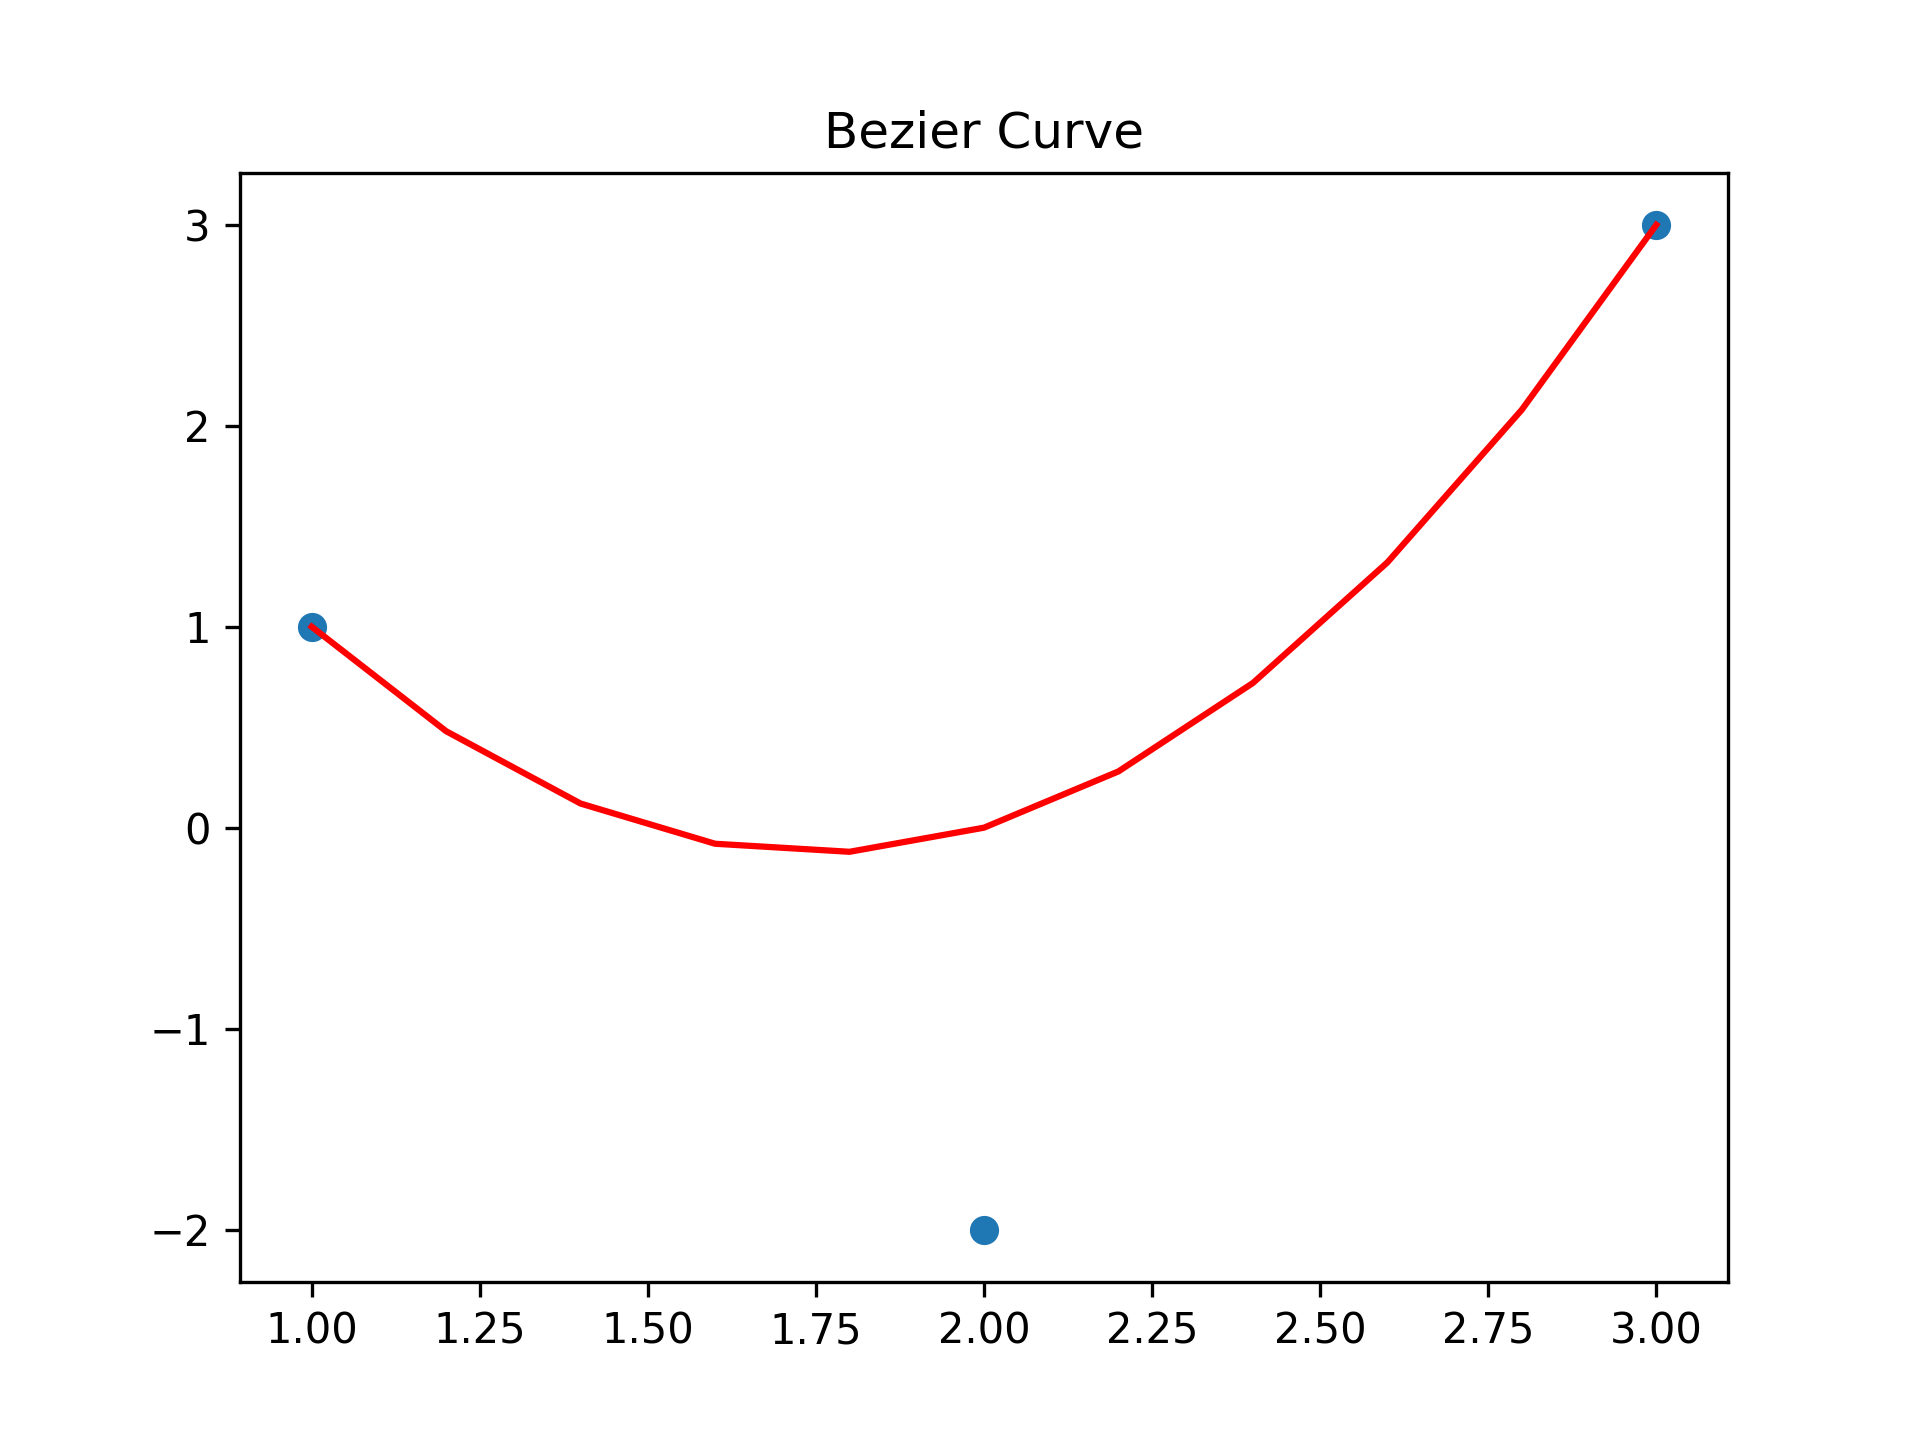
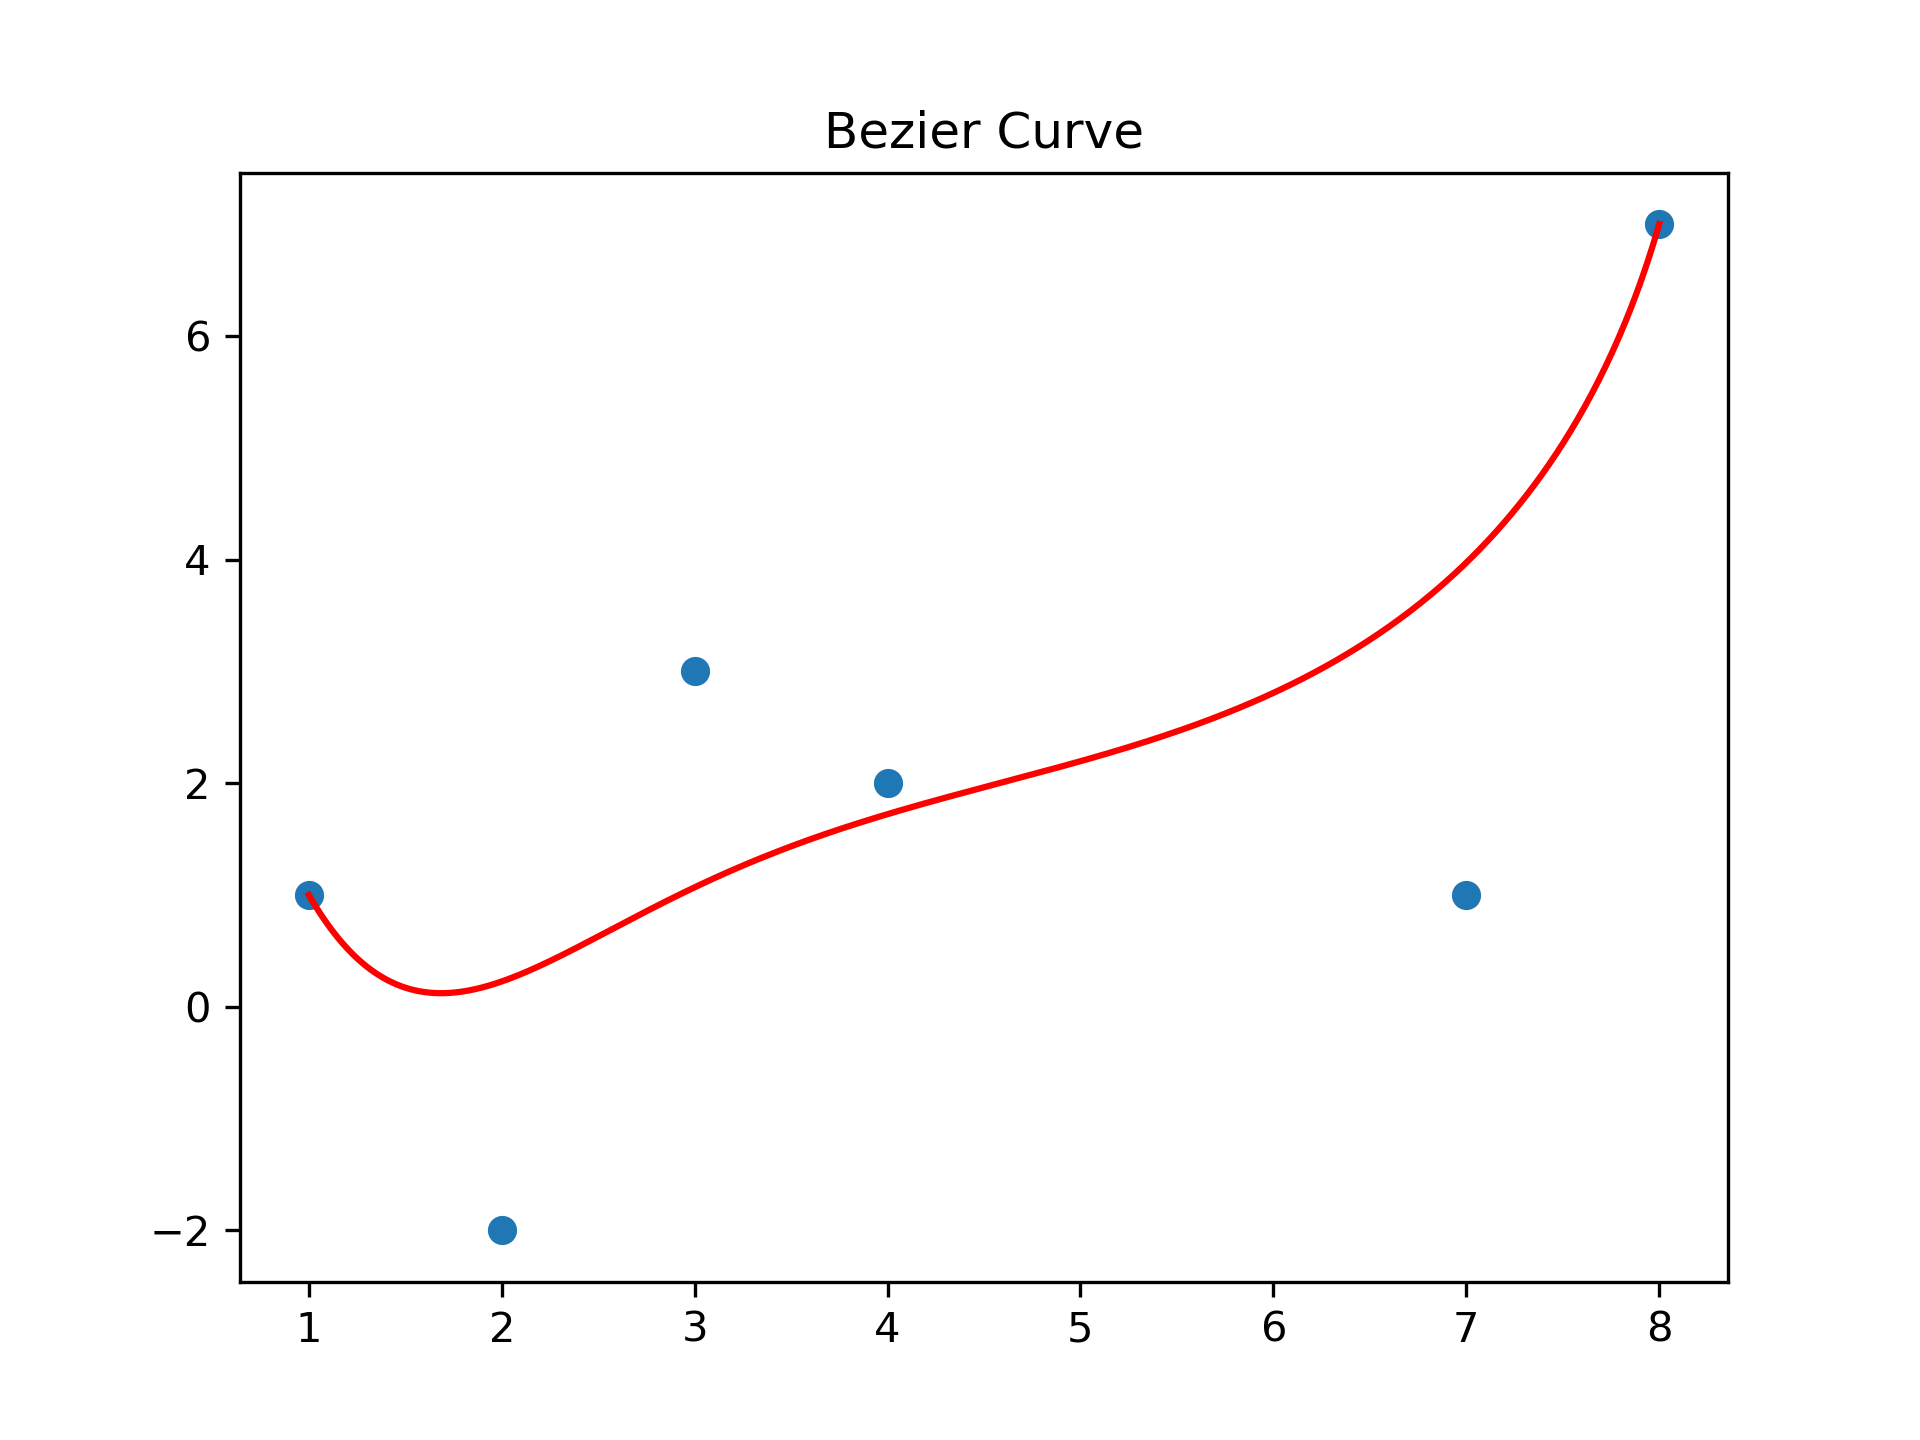
-Fixed hermite splines

diff --git a/splines.py b/splines.py
@@ -35,26 +35,31 @@ def hermiteSplines(pts):
     plt.figure()
     plt.title("Hermite Splines")
     numPts = pts.shape[1]
-    colours = ["r-", "g-", "b-"]
     
-    delta = 0.1
+    delta = 0.001
     
     for i in range(0, pts.shape[1], 4):
         plt.scatter(pts[0,i:i + 2], pts[1,i:i + 2])
-        mat = np.array([[0, 0, 0, 1],
+        mat = np.array([[1, 0, 0, 0],
                         [1, 1, 1, 1],
-                        [0, 0, 1, 0],
-                        [3, 2, 1, 0]])
+                        [0, 1, 0, 0],
+                        [0, 1, 2, 3]])
     
         coeff = np.matmul(np.linalg.inv(mat), pts[:,i:i + 4].T)
-        print coeff
-        t_mat = np.array([[(delta * k) ** j for j in range(numPts)]
+        t_mat = np.array([[(delta * k) ** j for j in range(4)]
                           for k in range(int(1/delta) + 1)])
         
-        print t_mat
-        x = np.matmul(t_mat, coeff)
-        print x
-        plt.plot(x[:,0], x[:,1], colours[i % 3])
+        x = np.matmul(t_mat, coeff).T
+        plt.plot(x[0], x[1])
+        
+        toPlot = ([pts[0, i] - pts[0, i + 2], pts[0, i], pts[0, i] + pts[0, i + 2]],
+                  [pts[1, i] - pts[1, i + 2], pts[1, i], pts[1, i] + pts[1, i + 2]])
+        plt.plot(toPlot[0], toPlot[1])
+        
+        toPlot = ([pts[0, i + 1] - pts[0, i + 3], pts[0, i + 1], pts[0, i + 1] + pts[0, i + 3]],
+                  [pts[1, i + 1] - pts[1, i + 3], pts[1, i + 1], pts[1, i + 1] + pts[1, i + 3]])
+        plt.plot(toPlot[0], toPlot[1])
+        
     
     plt.savefig("./Plots/HermiteSplines.png", dpi=300) 
     
@@ -65,7 +70,7 @@ def bezierCurve(pts):
     plt.scatter(pts[0], pts[1])
     numPts = pts.shape[1]
     
-    delta = 0.1
+    delta = 0.001
     
     t = [delta * i for i in range(int(1/delta) + 1)]
     c_t = []
@@ -73,7 +78,6 @@ def bezierCurve(pts):
         c_t.append(sum([pts[:,j] * bernsteinTerm(numPts - 1, j, i) for j in range(numPts)]))
     
     c_t = np.array(c_t)
-    print c_t
     
     plt.plot(c_t[:,0], c_t[:,1], 'r-')
         
@@ -89,19 +93,19 @@ pts = np.array(
     [[1, 2, 3, 4, 6, 8, 10, 12],
      [1, -2, 3, -4, 6, 7, 3, 1]])    
 
-#interpolate(pts)
+interpolate(pts)
 
 pts = np.array(
-    [[1, 2, 3],
-     [1, -2, 3]])  
+    [[0,  5, 1, 0, 5, 6, 0, 1],
+     [0,  5, 0, 1, 5, 10, 1, -1]]) 
+
+hermiteSplines(pts)
+
+pts = np.array(
+    [[1, 2, 3, 4, 7, 8],
+     [1, -2, 3, 2, 1, 7]])  
 
 bezierCurve(pts)
-
-#pts = np.array(
-    #[[0,  1, 0, 1],
-     #[0,  1, -1, 0]]) 
-
-#hermiteSplines(pts)
 
 
     
